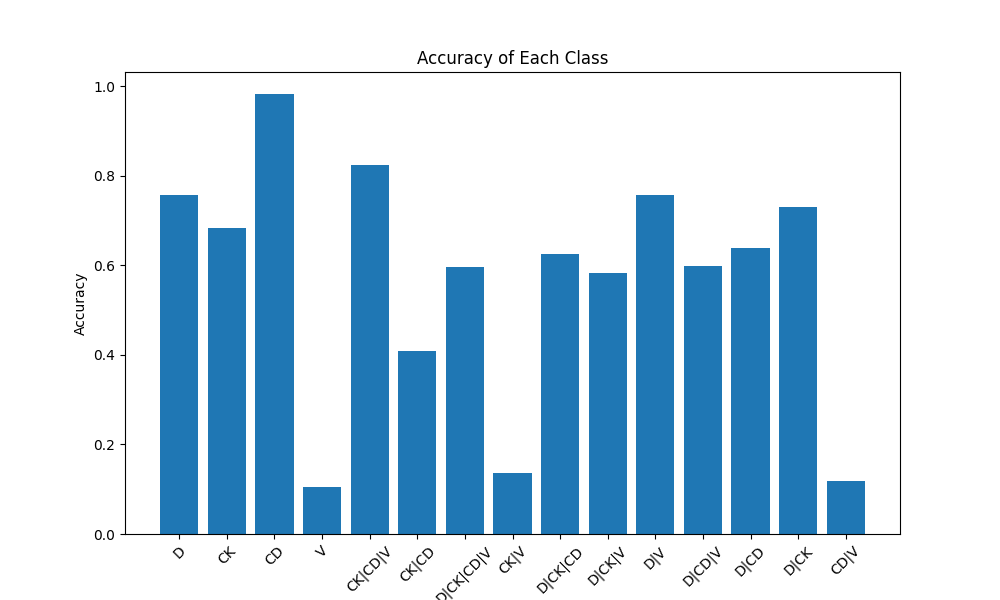
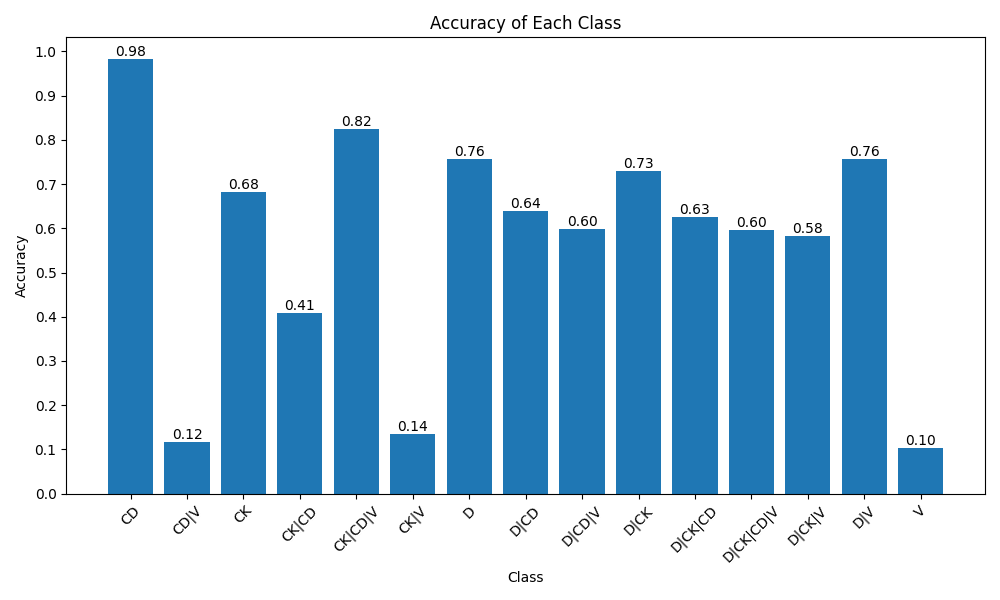
plots with each class accuracies.

diff --git a/csi_analysis/training/channel_classifier/channel_classifier/modeling/eval.py b/csi_analysis/training/channel_classifier/channel_classifier/modeling/eval.py
@@ -85,13 +85,25 @@ class Evaluator:
         # Calculate accuracy for each class
         class_accuracies = {self.class_map[i]: class_correct[i] / class_total[i] if class_total[i] > 0 else 0 for i in range(self.sweep.num_classes)}
 
+        # Sort class accuracies by class names
+        sorted_class_accuracies = dict(sorted(class_accuracies.items()))
+
         # Plot the accuracy for each class
         plt.figure(figsize=(10, 6))
-        plt.bar(class_accuracies.keys(), class_accuracies.values())
+        bars = plt.bar(sorted_class_accuracies.keys(), sorted_class_accuracies.values())
         plt.xlabel('Class')
         plt.ylabel('Accuracy')
         plt.title('Accuracy of Each Class')
         plt.xticks(rotation=45)
+        plt.yticks([i/10 for i in range(11)])  # Add y-ticks for each class
+        plt.tight_layout()  # Adjust layout to make room for labels
+
+        # Annotate each bar with the y-value (accuracy)
+        for bar in bars:
+            yval = bar.get_height()
+            plt.text(bar.get_x() + bar.get_width()/2, yval, f'{yval:.2f}', ha='center', va='bottom')
+
+        # Save the plot
         plt.savefig('class_accuracies.png')
 
 if __name__ == "__main__":
